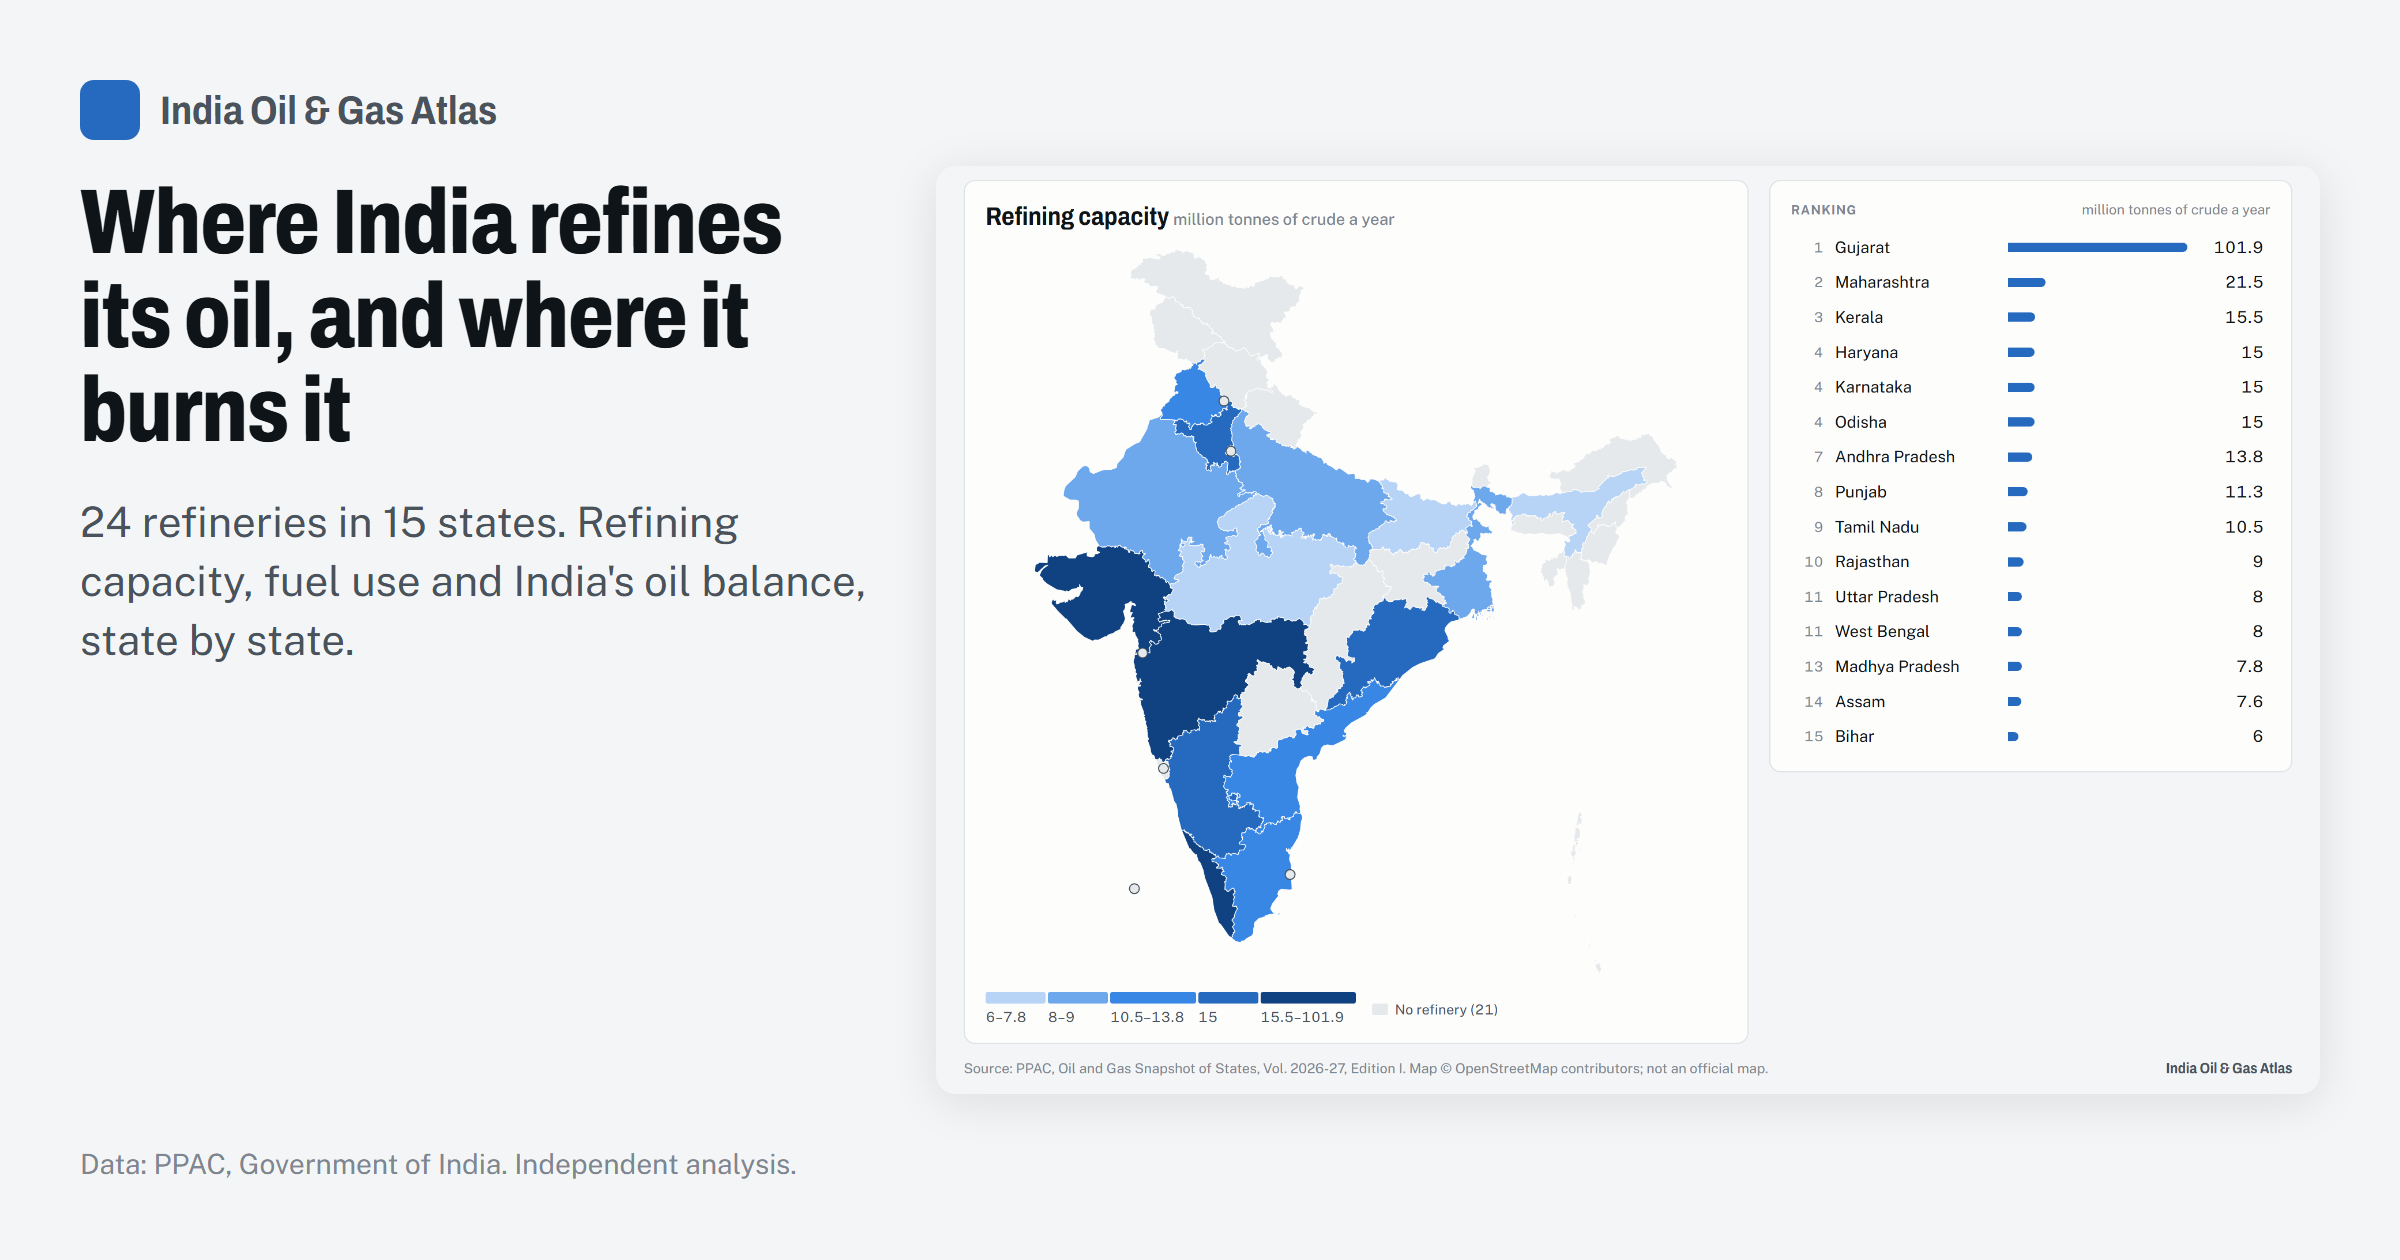
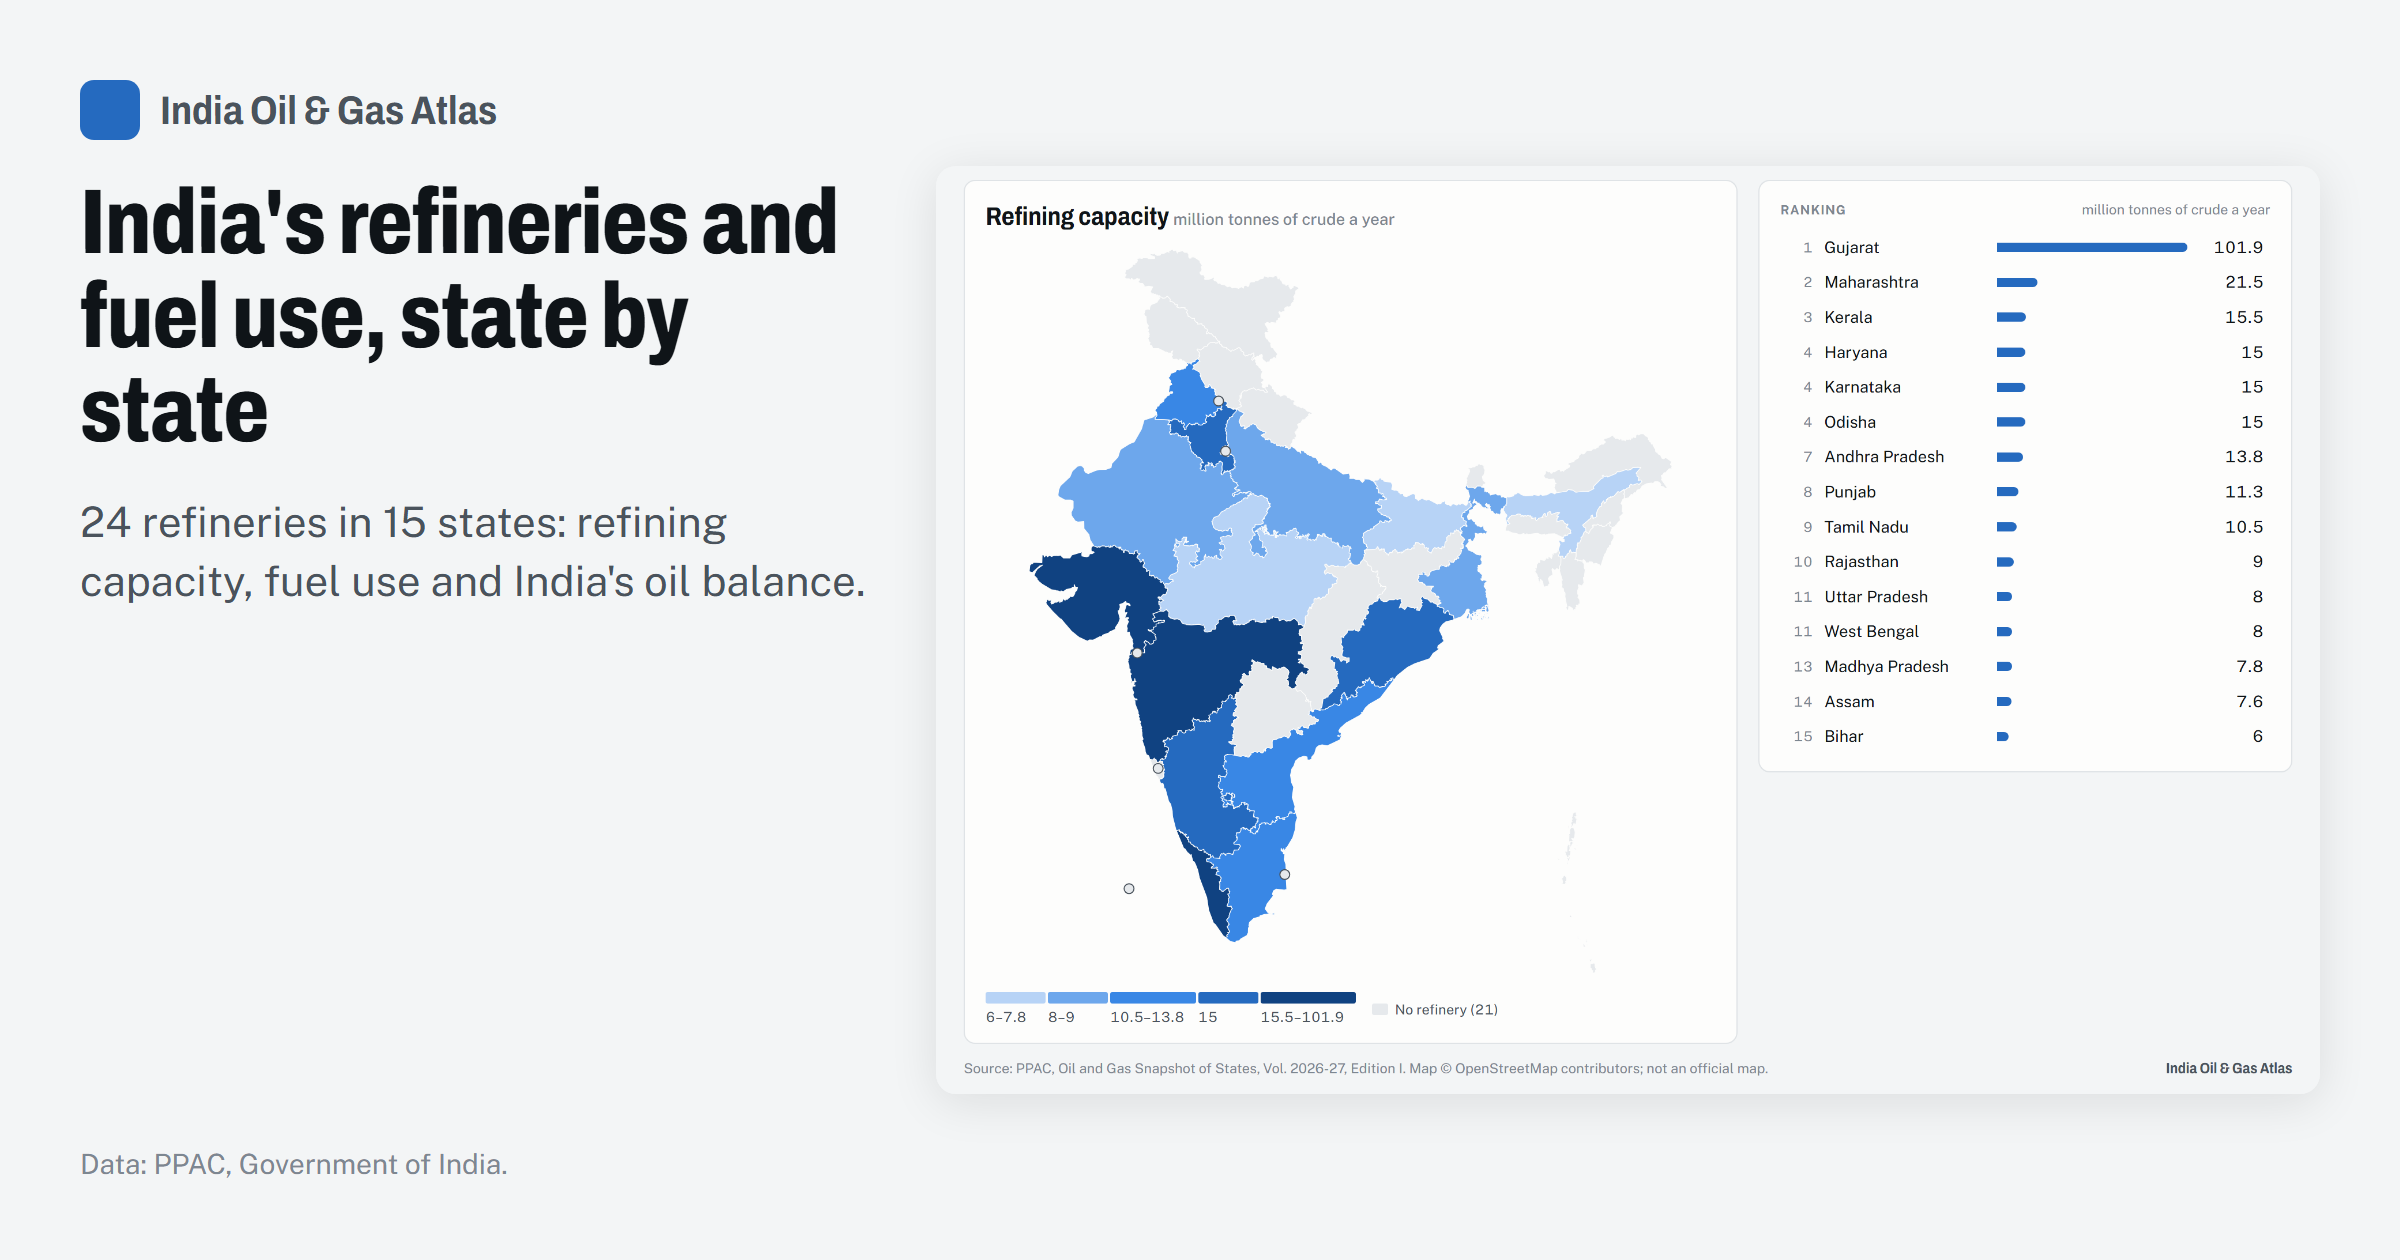
Map: right column matches the map's height; share card headline

diff --git a/index.html b/index.html
@@ -40,6 +40,16 @@
 
 .grid { display: grid; gap: 18px; grid-template-columns: minmax(0, 1.45fr) minmax(0, 1fr); align-items: start; }
 @media (max-width: 900px) { .grid { grid-template-columns: minmax(0, 1fr); } }
+/* Side by side, the two columns end level: the right column takes the map's height (contain: size keeps it
+   from stretching the row), but at least enough for about eight ranking rows; then the map card stretches and
+   centres the map. The ranking fills what is left and scrolls. Images keep their natural height. */
+@media (min-width: 901px) {
+  html:not(.static) .grid { align-items: stretch; }
+  html:not(.static) .side { contain: size; min-height: 760px; }
+  html:not(.static) .mapwrap { flex: 1; display: flex; flex-direction: column; justify-content: center; }
+  html:not(.static) .rankcard { flex: 1; min-height: 0; display: flex; flex-direction: column; }
+  html:not(.static) #rank { flex: 1; min-height: 0; overflow-y: auto; scrollbar-width: thin; }
+}
 .side { display: flex; flex-direction: column; gap: 18px; min-width: 0; }
 .card { background: var(--surface); border: 1px solid var(--line); border-radius: var(--radius); min-width: 0; }
 .mapcard { padding: 18px 18px 14px; display: flex; flex-direction: column; gap: 10px; }
@@ -113,7 +123,13 @@
 .more { margin-top: 10px; font: inherit; font-size: 13px; color: var(--accent); background: none; border: 1px solid var(--line); border-radius: 8px; padding: 6px 12px; cursor: pointer; }
 .more:hover { background: var(--accent-soft); }
 html.static .grid { grid-template-columns: minmax(0, 1.5fr) minmax(0, 1fr); }
-@media (min-width: 640px) { html.embed .grid { grid-template-columns: minmax(0, 1.45fr) minmax(0, 1fr); } }
+@media (min-width: 640px) {
+  html.embed .grid { grid-template-columns: minmax(0, 1.45fr) minmax(0, 1fr); }
+  html.embed:not(.static) .grid { align-items: stretch; }
+  html.embed:not(.static) .side { contain: size; }
+  html.embed:not(.static) .rankcard { flex: 1; min-height: 0; display: flex; flex-direction: column; }
+  html.embed:not(.static) #rank { flex: 1; min-height: 0; overflow-y: auto; scrollbar-width: thin; }
+}
 html.static #map { max-height: 640px; }
 /* Images carry the chart only; the explanation goes in the post. */
 html.static .balnums, html.static .balnote, html.static #ballead, html.static #msub, html.static .ranknote { display: none !important; }
@@ -477,10 +493,12 @@ function renderState() {
 $("statecard").addEventListener("change", (e) => { if (e.target.id === "statesel") select(e.target.value); });
 $("statecard").addEventListener("click", (e) => { const b = e.target.closest(".stat"); if (b) { state.metric = b.dataset.code; render(); } });
 
+const SIDE_BY_SIDE = matchMedia(EMBED.mode ? "(min-width: 640px)" : "(min-width: 901px)");
 function renderRank() {
   const list = M.sorted.filter((n) => M.vals[n] > 0);
-  // Embeds and images show every state when the list is short (refineries: 15), otherwise the top 10.
-  const full = !!EMBED.mode && list.length <= 15;
+  // Side by side, the ranking scrolls within the map's height, so it lists every state. Stacked (phones),
+  // it shows the top 10 with a button; embeds and images list every state when there are at most 15.
+  const full = (!EMBED.isStatic && SIDE_BY_SIDE.matches) || (!!EMBED.mode && list.length <= 15);
   let shown = state.showAll || full ? list : list.slice(0, 10);
   if (!state.showAll && list.includes(state.region) && !shown.includes(state.region)) shown = [...shown, state.region];
   const max = M.vals[list[0]] || 1;
@@ -496,7 +514,14 @@ function renderRank() {
   $("ranknote").textContent = rest ? `${rest} states and union territories have no refinery.` : "";
   $("more").hidden = full || list.length <= 10;
   $("more").textContent = state.showAll ? "Show top 10" : `Show all ${list.length}`;
+  // Keep the selected state in view inside the scrolling list (without scrolling the page).
+  const rk = $("rank"), on = rk.querySelector(".on");
+  if (on && rk.scrollHeight > rk.clientHeight) {
+    const top = on.offsetTop - rk.offsetTop;
+    if (top < rk.scrollTop || top + on.offsetHeight > rk.scrollTop + rk.clientHeight) rk.scrollTop = top - rk.clientHeight / 2;
+  }
 }
+SIDE_BY_SIDE.addEventListener("change", renderRank);
 $("rank").addEventListener("click", (e) => { const b = e.target.closest("[data-name]"); if (b) select(b.dataset.name); });
 $("more").addEventListener("click", () => { state.showAll = !state.showAll; renderRank(); });
 

diff --git a/posts/where-india-refines-its-oil.html b/posts/where-india-refines-its-oil.html
@@ -61,17 +61,17 @@
 <p>Every month, India's refineries take in about 22 million tonnes of crude oil, roughly 5.3 million barrels a day (mbpd).</p>
 <p>This first post maps where that refining happens, how much each state can process, and where the oil goes. The figures come from the Petroleum Planning &amp; Analysis Cell (PPAC), the data arm of the Ministry of Petroleum and Natural Gas, for April to June 2026.</p>
 <h2>24 refineries, 15 states</h2>
-<figure class="chart"><iframe src="../index.html?embed=map&amp;measure=2.01&amp;state=none&amp;v=9f0db8c5" title="Refineries by state" height="980" loading="lazy" data-atlas></iframe></figure>
+<figure class="chart"><iframe src="../index.html?embed=map&amp;measure=2.01&amp;state=none&amp;v=003f6d3f" title="Refineries by state" height="980" loading="lazy" data-atlas></iframe></figure>
 <p>India has 24 refineries spread across 15 states. The other 21 states and union territories have none, and draw their fuel from refineries elsewhere.</p>
 <p>The count alone misleads. Assam and Gujarat each have four refineries. Assam's four, at Digboi, Guwahati, Bongaigaon and Numaligarh, can together process 7.6 million tonnes of crude a year. Gujarat's four can process 101.9 million, more than 13 times as much, with one in Jamnagar having the highest refining capacity than any other refineries in the world.</p>
 <p>Most refining states have a single plant: Bihar (Barauni), Haryana (Panipat), Karnataka (Mangalore), Kerala (Kochi), Madhya Pradesh (Bina), Odisha (Paradeep), Punjab (Guru Gobind Singh refinery), Rajasthan (Barmer), Uttar Pradesh (Mathura) and West Bengal (Haldia). Andhra Pradesh, Maharashtra and Tamil Nadu have two each.</p>
 <h2>One state holds 38% of the capacity</h2>
-<figure class="chart"><iframe src="../index.html?embed=map&amp;measure=2.02&amp;state=none&amp;v=9f0db8c5" title="Refining capacity by state" height="980" loading="lazy" data-atlas></iframe></figure>
+<figure class="chart"><iframe src="../index.html?embed=map&amp;measure=2.02&amp;state=none&amp;v=003f6d3f" title="Refining capacity by state" height="980" loading="lazy" data-atlas></iframe></figure>
 <p>Together, India's refineries can process 267.1 million tonnes of crude a year, about 5.36 million barrels a day. Gujarat alone accounts for 101.9 million tonnes, 38% of the national total. That is more than the next six states combined.</p>
 <p>The four Gujarat refineries are Reliance's two at Jamnagar, Indian Oil's at Koyali and Nayara Energy's at Vadinar. Between them they can process about four times as much crude as the 25.3 million tonnes of fuel Gujarat itself uses in a year.</p>
 <p>After Gujarat the drop is steep: Maharashtra 21.5 million tonnes, Kerala 15.5, then Haryana, Karnataka and Odisha at 15 each. The remaining nine refining states each have between 6 and 14 million tonnes.</p>
 <h2>Where the oil comes from, and where it goes</h2>
-<figure class="chart"><iframe src="../index.html?embed=balance&amp;v=9f0db8c5" title="India&#x27;s oil balance" height="1150" loading="lazy" data-atlas></iframe></figure>
+<figure class="chart"><iframe src="../index.html?embed=balance&amp;v=003f6d3f" title="India&#x27;s oil balance" height="1150" loading="lazy" data-atlas></iframe></figure>
 <p>The chart follows a year of oil through the system, at the pace of April to June 2026. Crude and imported fuel come in, refineries turn crude into products, and the products are used in India or sold abroad.</p>
 <p><strong>Crude coming in.</strong> India imported crude at a rate of 241 million tonnes a year, or 4.84 million barrels a day. That is 90% of all the crude its refineries process. India's own fields add 27.4 million tonnes, and ONGC produces 60% of that. Fields run under production- and revenue-sharing contracts supply 19%, Oil India 14%, and condensate from gas fields the rest.</p>
 <p><strong>Refineries running flat out.</strong> Refineries processed 264.4 million tonnes a year against a capacity of 267.1 million.</p>
